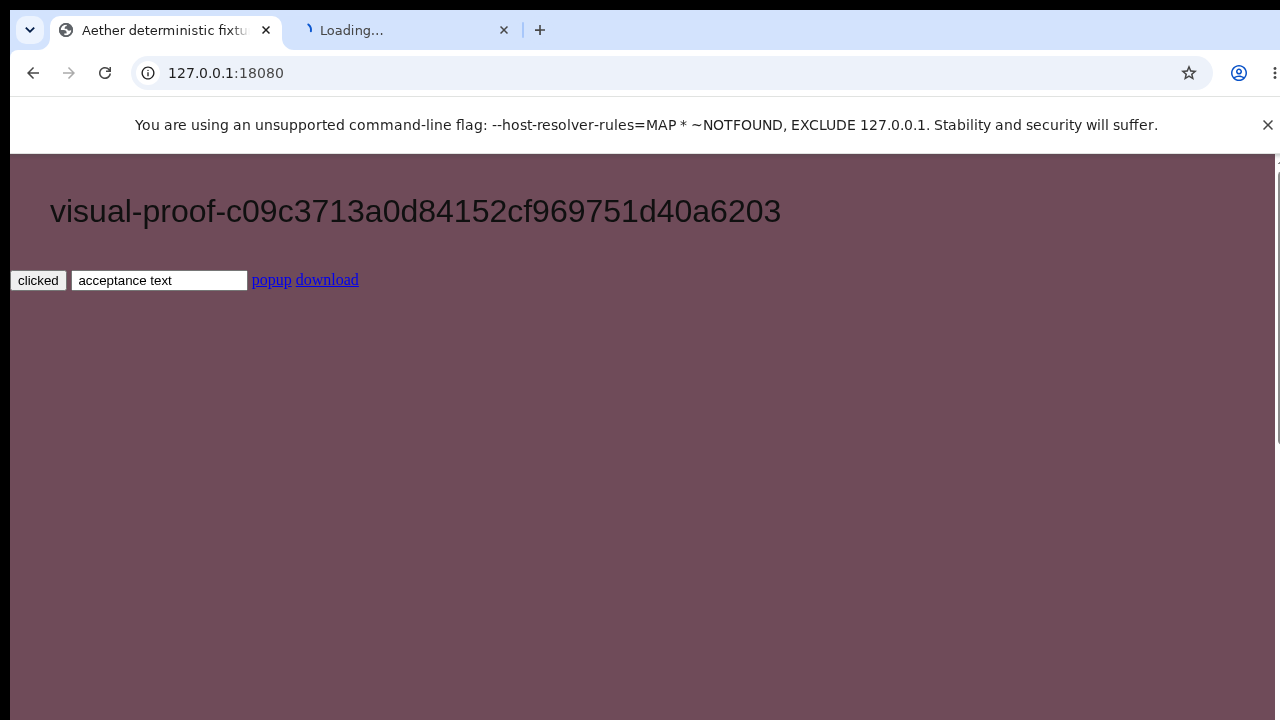
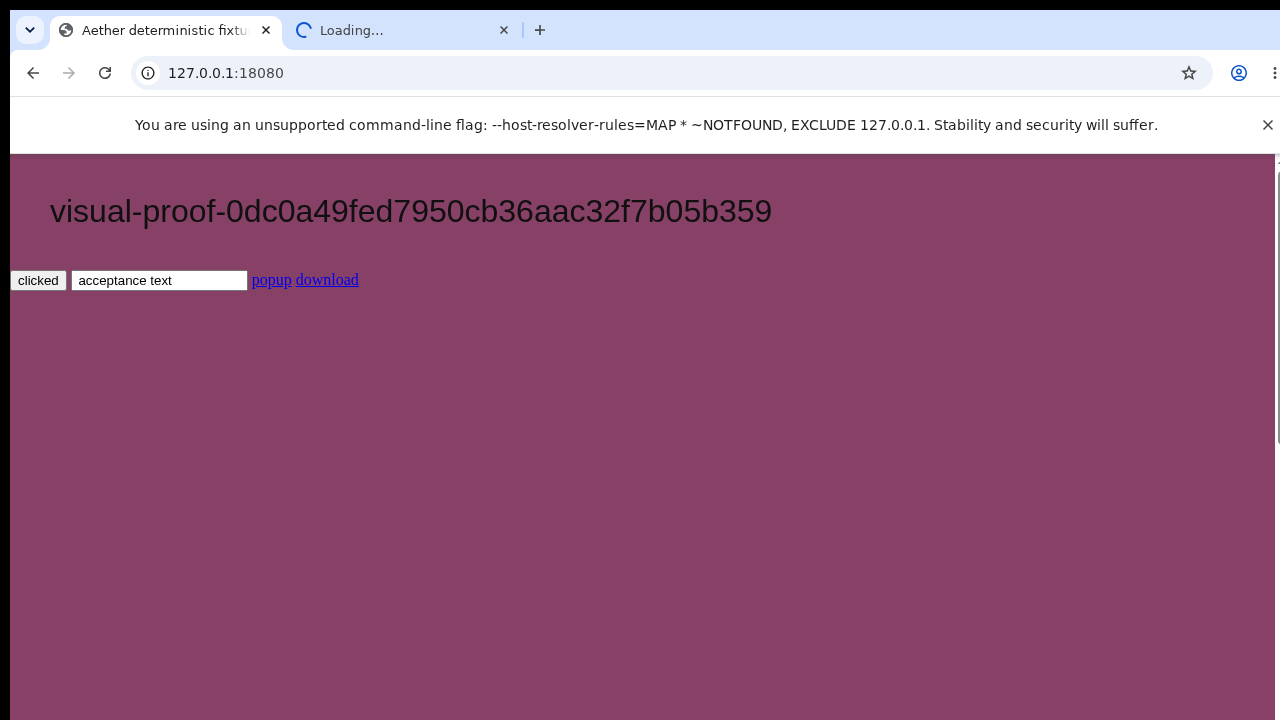
Rebind release evidence to the visitor-conversion pass (#49)
Recapture against runtime commit 5d40be5ec3022170058920abbad49c9f942a6fd7,
which carries the README conversion pass, the docs-site discovery
metadata, and the launch-kit corrections. Acceptance re-passed all 33
checks and the committed media re-hashes to the workflow SHA256SUMS byte
for byte.

Changed region(s): [[0.1562, 0.275, 0.625, 0.3056]]

diff --git a/docs/RELEASE_EVIDENCE.md b/docs/RELEASE_EVIDENCE.md
@@ -5,7 +5,7 @@
 This document records exact-commit evidence for release candidate `v0.1.0-rc.1` of Agent Browser.
 Every field is bound to one runtime commit, one immutable image ID, and one hosted workflow run.
 
-Tested runtime commit: `873b59a3ad63d4d828ec08069fbe1b96380b186b`
+Tested runtime commit: `5d40be5ec3022170058920abbad49c9f942a6fd7`
 
 Release candidate: `v0.1.0-rc.1`, published as a source-only prerelease. No Chrome-containing
 image, image tar, filesystem layer, or reusable layer cache is published.
@@ -19,19 +19,19 @@ did not execute this release build; see [Host attestation scope](#host-attestati
 ## Commit-bound record
 
 Unless stated otherwise, every row below comes from `release-evidence`
-[run 33676078669](https://github.com/AetherAI3/agent-browser/actions/runs/33676078669).
+[run 33678503714](https://github.com/AetherAI3/agent-browser/actions/runs/33678503714).
 
 | Gate | Required evidence | Recorded result |
 |---|---|---|
-| Clean checkout | exact commit and clean status | `ref-proof` resolved `main` to `873b59a3…`; every downstream job checked out and re-verified that exact SHA ([job](https://github.com/AetherAI3/agent-browser/actions/runs/33676078669/job/100400968252)) |
-| Hosted CI | exact-commit run URL and job matrix | `ci` succeeded at `873b59a3…`: [run 33676078397](https://github.com/AetherAI3/agent-browser/actions/runs/33676078397) |
+| Clean checkout | exact commit and clean status | `ref-proof` resolved `main` to `5d40be5e…`; every downstream job checked out and re-verified that exact SHA ([job](https://github.com/AetherAI3/agent-browser/actions/runs/33678503714/job/100409072289)) |
+| Hosted CI | exact-commit run URL and job matrix | `ci` succeeded at `5d40be5e…`: [run 33678503395](https://github.com/AetherAI3/agent-browser/actions/runs/33678503395) |
 | Trusted runner | runner labels, exact commit, service isolation | GitHub-hosted `ubuntu-24.04`; rootless Podman API bound to a private per-job socket; acceptance ran in an isolated pod with `--network none` |
 | Static and unit checks | command, counts, and run URL | `ruff format --check`, `ruff check`, `mypy src`, and `pytest -q` all passed inside the strict gate (`quality`: "format, lint, typing, and tests passed") |
 | Dependency audit | locked input and result | `dependency-audit` PASS — locked `requirements.lock` consistency and vulnerability audit passed |
[1 lines of base64/hex data omitted]
-| Rootless image build | image ID and base digest | Image ID `sha256:cedb62d6e9cd9e3f7e93d5d5a5076b2f9e57e48c3492f472ac05ea8546201366`; base `docker.io/library/python@sha256:528257d48c1da0dcecc2e725d1ae34498d60c965f1241e39cd6a85a8859bdf84`; final image runs as `USER 10001:10001` ([job](https://github.com/AetherAI3/agent-browser/actions/runs/33676078669/job/100401014851)) |
-| Isolated acceptance | exact image ID, network proof, cleanup proof | `acceptance.json` = PASS over 33 checks against the same image ID, including `isolated-pod-network-none`, `same-pod-namespace`, `loopback-listener-proof`, `process-cleanup`, `profile-cleanup`, and `pod-cleanup` ([job](https://github.com/AetherAI3/agent-browser/actions/runs/33676078669/job/100402765846)) |
-| README quickstart | fresh-directory reproduction | `quickstart.json` = PASS for `docker compose up --build --detach` at the same commit ([job](https://github.com/AetherAI3/agent-browser/actions/runs/33676078669/job/100401014682)) |
[1 lines of base64/hex data omitted]
+| Rootless image build | image ID and base digest | Image ID `sha256:9b307a99fa0a82ea978192336baee9cb503c55237d1c6c99981c9f248605d756`; base `docker.io/library/python@sha256:528257d48c1da0dcecc2e725d1ae34498d60c965f1241e39cd6a85a8859bdf84`; final image runs as `USER 10001:10001` ([job](https://github.com/AetherAI3/agent-browser/actions/runs/33678503714/job/100409121725)) |
+| Isolated acceptance | exact image ID, network proof, cleanup proof | `acceptance.json` = PASS over 33 checks against the same image ID, including `isolated-pod-network-none`, `same-pod-namespace`, `loopback-listener-proof`, `process-cleanup`, `profile-cleanup`, and `pod-cleanup` ([job](https://github.com/AetherAI3/agent-browser/actions/runs/33678503714/job/100410615522)) |
+| README quickstart | fresh-directory reproduction | `quickstart.json` = PASS for `docker compose up --build --detach` at the same commit ([job](https://github.com/AetherAI3/agent-browser/actions/runs/33678503714/job/100409121762)) |
 | Demo | link to `DEMO_EVIDENCE.md` | [`docs/DEMO_EVIDENCE.md`](DEMO_EVIDENCE.md) records the generated media, its provenance, and its limits |
[1 lines of base64/hex data omitted]
 | Repository state | visibility and open-PR review | Public, with branch protection on `main` (strict, linear history; force-push and deletion disabled); no open pull request or unresolved review thread blocks this candidate |
@@ -55,7 +55,7 @@ Passing gate checks at the runtime commit: `required-core-files`, `required-sour
 
 Two commit IDs appear in this evidence and they mean different things:
 
-- **Runtime commit** `873b59a3ad63d4d828ec08069fbe1b96380b186b` is the code under test. Every
+- **Runtime commit** `5d40be5ec3022170058920abbad49c9f942a6fd7` is the code under test. Every
   runtime proof — the image build, isolated acceptance, quickstart, and the committed demo media —
   was produced from it.
 - **Evidence commit** is the runtime commit plus the evidence artifacts themselves. The gate
@@ -93,7 +93,7 @@ The self-hosted VPS6 qualification run is partial and is not a release-build att
 ## Closure assertions
 
 - Runtime, authority, navigation, container, CI, and documentation all refer to
-  `873b59a3ad63d4d828ec08069fbe1b96380b186b`.
+  `5d40be5ec3022170058920abbad49c9f942a6fd7`.
 - No required check is red or attached to another commit; the only skipped checks are the two
   declared `--skip-external` entries, each independently proven by a dedicated job.
 - No blocking fixed high-or-higher security finding and no unresolved review thread remains.

diff --git a/docs/DEMO_EVIDENCE.md b/docs/DEMO_EVIDENCE.md
@@ -12,25 +12,25 @@ asset and is not runtime proof.
 
 | Field | Recorded value |
 |---|---|
-| Exact 40-character commit | `873b59a3ad63d4d828ec08069fbe1b96380b186b` |
-| Immutable container image ID | `sha256:cedb62d6e9cd9e3f7e93d5d5a5076b2f9e57e48c3492f472ac05ea8546201366` |
-| Build command and run URL | Rootless `podman build` against a private per-job Podman API, `release-evidence` workflow, [container job](https://github.com/AetherAI3/agent-browser/actions/runs/33676078669/job/100401014851) |
-| Acceptance command and run URL | Isolated exact-image acceptance in a `--network none` pod, same run, [acceptance job](https://github.com/AetherAI3/agent-browser/actions/runs/33676078669/job/100402765846) |
+| Exact 40-character commit | `5d40be5ec3022170058920abbad49c9f942a6fd7` |
+| Immutable container image ID | `sha256:9b307a99fa0a82ea978192336baee9cb503c55237d1c6c99981c9f248605d756` |
+| Build command and run URL | Rootless `podman build` against a private per-job Podman API, `release-evidence` workflow, [container job](https://github.com/AetherAI3/agent-browser/actions/runs/33678503714/job/100409121725) |
+| Acceptance command and run URL | Isolated exact-image acceptance in a `--network none` pod, same run, [acceptance job](https://github.com/AetherAI3/agent-browser/actions/runs/33678503714/job/100410615522) |
 | Agent Browser version | `0.1.0` (agreed across project, package, Compose, and image label at this commit) |
 | Google Chrome Stable executable, package version, architecture, and source | `/opt/google/chrome/chrome`, `Google Chrome 152.0.7977.75`, package `google-chrome-stable 152.0.7977.75-1`, `amd64`, installed in-image via `patchright install --with-deps chrome` |
-| Capture date in UTC | 2026-09-02, 19:59:12Z to 19:59:33Z |
+| Capture date in UTC | 2026-09-02, 20:22:56Z to 20:23:16Z |
 | Capture operator | Automated `release-evidence` workflow on a GitHub-hosted `ubuntu-24.04` runner; no interactive operator step |
[5 lines of base64/hex data omitted]
 
 ## How the media was produced
 
 Two real frames were taken during the isolated acceptance run against the exact image:
 
[2 lines of base64/hex data omitted]
   the page as returned through the control API, before the interaction batch.
[2 lines of base64/hex data omitted]
   an X11 screenshot of the container display, after the interaction batch.
 
 `assets/demo-poster.png` is a byte-identical copy of `demo-frames/display-after.png`.
@@ -44,9 +44,9 @@ committed files byte for byte.
 ## What the frames show
 
 Both frames render the same deterministic release fixture, served over container loopback at
-`127.0.0.1:18080`, with the same generated nonce `visual-proof-c09c3713a0d84152cf969751d40a6203`
-and the same generated proof color `#6f4b59`. `acceptance.json` records that color and the nonce
[1 lines of base64/hex data omitted]
+`127.0.0.1:18080`, with the same generated nonce `visual-proof-0dc0a49fed7950cb36aac32f7b05b359`
+and the same generated proof color `#874066`. `acceptance.json` records that color and the nonce
[1 lines of base64/hex data omitted]
 same-display check is bound to this run rather than to a stock page.
 
 In `display-after.png` the owned fixture page is the active, foregrounded tab; the button reads
